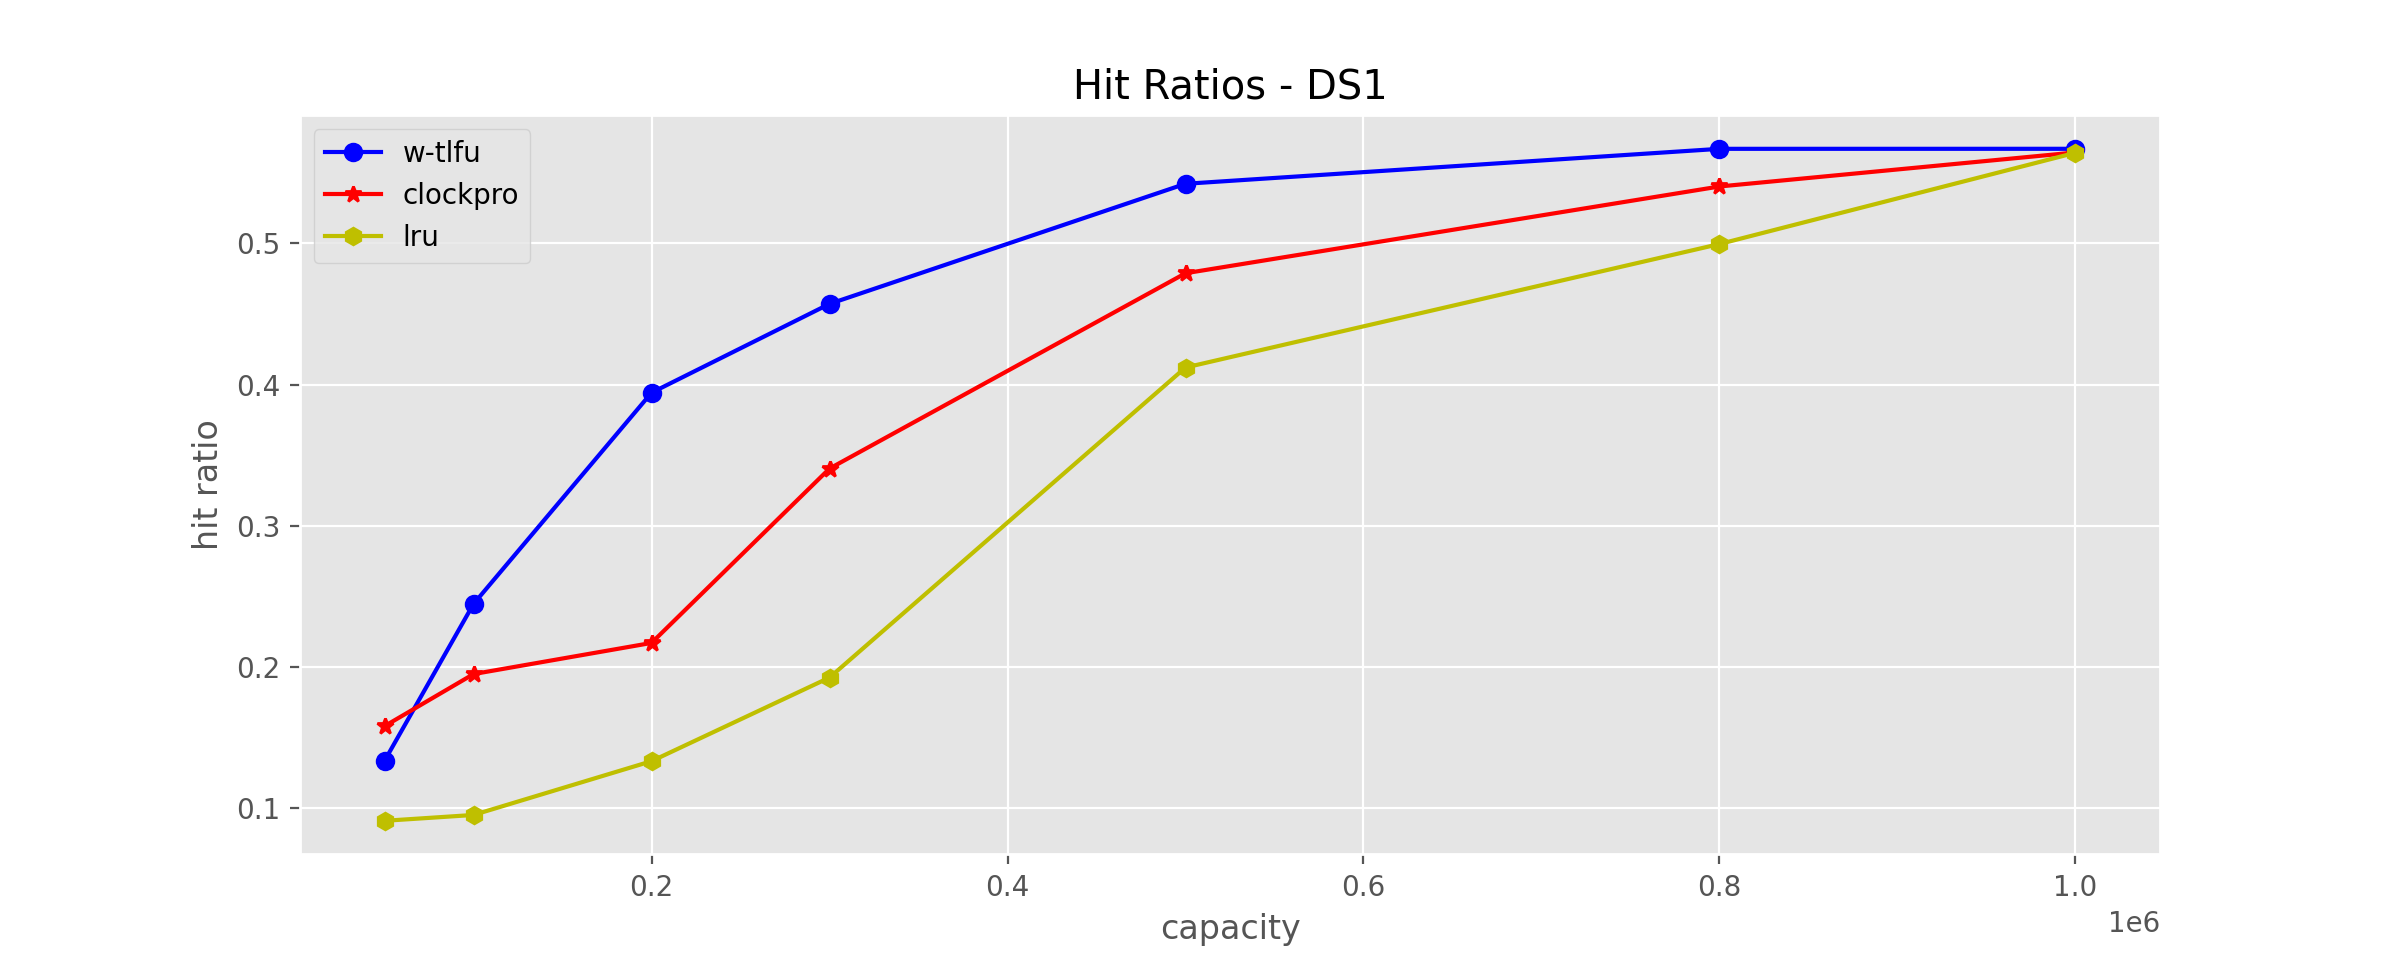
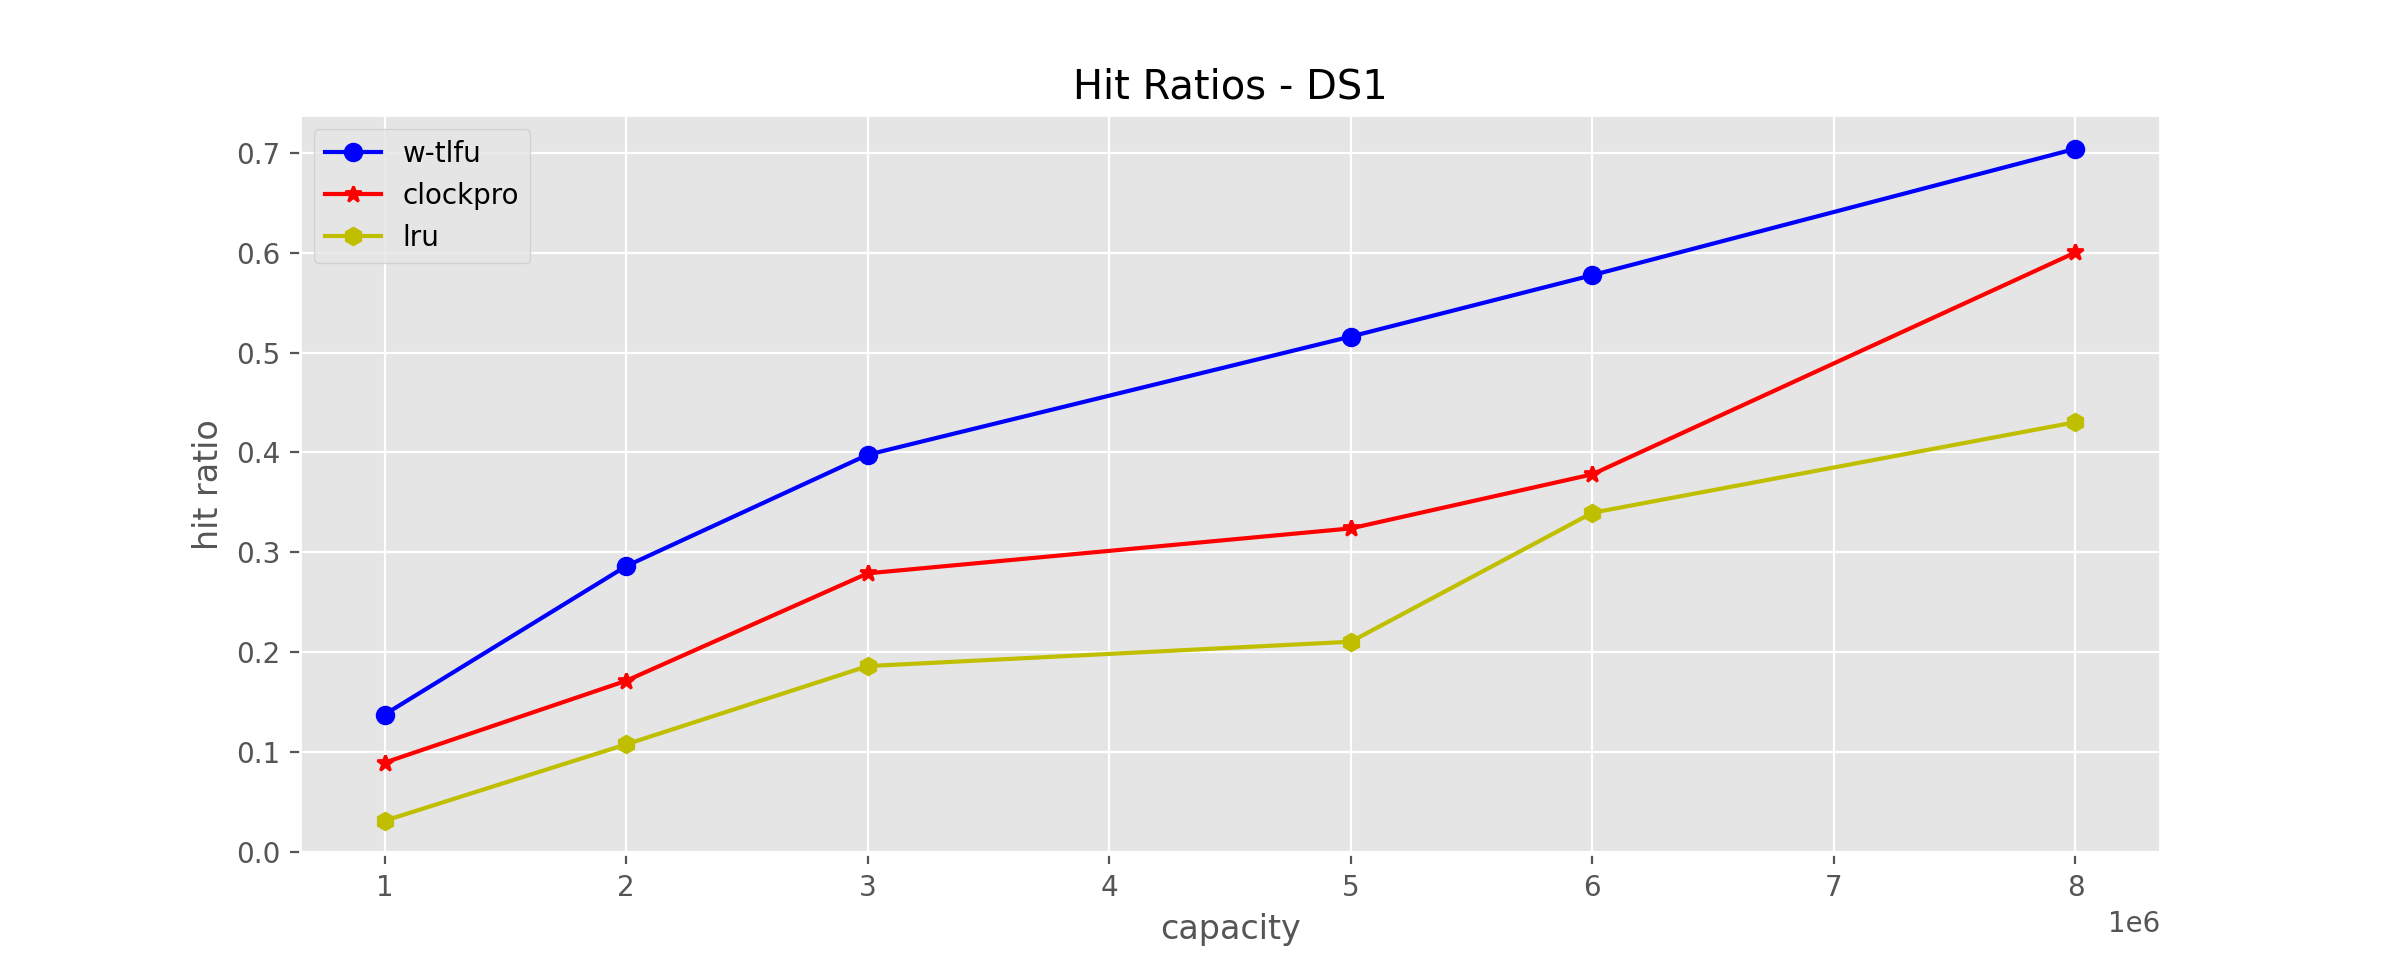
fix arc trace parser

diff --git a/benchmarks/trace_bench.py b/benchmarks/trace_bench.py
@@ -35,13 +35,21 @@ def ucb_key_gen() -> Iterator:
 def ds1_key_gen() -> Iterator:
     with open(f"benchmarks/trace/ds1", "r") as f:
         for line in f:
-            yield line.split(",")[0], GET
+            tmp = line.split(" ")
+            base = int(tmp[0])
+            count = int(tmp[1])
+            for i in range(count):
+                yield str(base + i), GET
 
 
 def s3_key_gen() -> Iterator:
     with open(f"benchmarks/trace/s3", "r") as f:
         for line in f:
-            yield line.split(",")[0], GET
+            tmp = line.split(" ")
+            base = int(tmp[0])
+            count = int(tmp[1])
+            for i in range(count):
+                yield str(base + i), GET
 
 
 def scarab_key_gen() -> Iterator:
@@ -172,7 +180,7 @@ bench_and_plot(
     [50000, 100000, 200000, 300000, 500000, 800000, 1000000], ucb_key_gen, "UCB"
 )
 bench_and_plot(
-    [50000, 100000, 200000, 300000, 500000, 800000, 1000000], ds1_key_gen, "DS1"
+    [1000000, 2000000, 3000000, 5000000, 6000000, 8000000], ds1_key_gen, "DS1"
 )
 bench_and_plot(
     [50000, 100000, 200000, 300000, 500000, 800000, 1000000], s3_key_gen, "S3"
@@ -183,4 +191,4 @@ bench_and_plot(
 
 bench_and_plot([25000, 50000, 75000, 100000], scarab_1h_key_gen, "SCARAB1H")
 
-# bench_and_plot([10000, 20000, 50000, 80000, 100000], fb_key_gen, "FB")
+bench_and_plot([10000, 20000, 50000, 80000, 100000], fb_key_gen, "FB")
